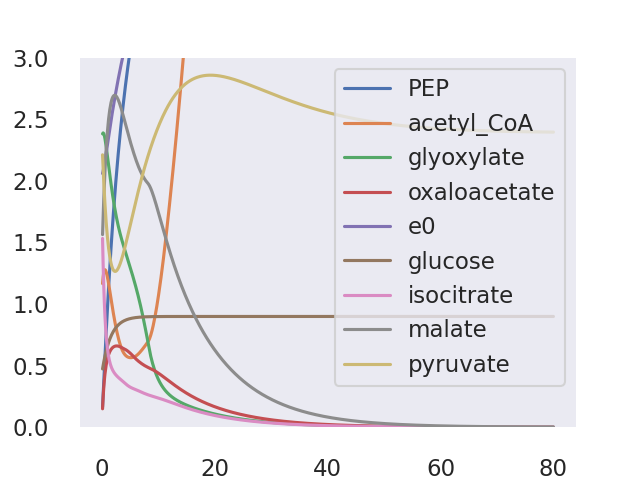
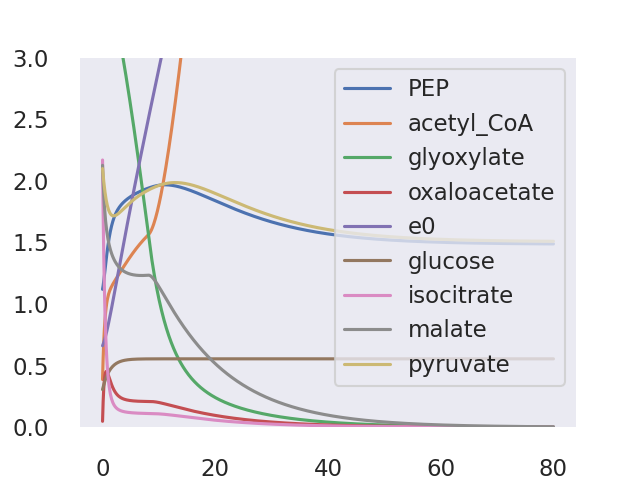
Added member variable to network for final masses

diff --git a/metabolicpd/examples/example2.py b/metabolicpd/examples/example2.py
@@ -7,49 +7,8 @@ from metabolicpd.life import network
 
 if __name__ == "__main__":
     # Another Example Case for a network from another paper
-    # m = np.random.rand(12) * 3
-    # f = np.random.default_rng().uniform(0.1, 0.8, 20)
-    m = np.array(
-        [
-            0.10194245,
-            1.12079691,
-            2.36864793,
-            0.08116026,
-            2.04990994,
-            0.45485493,
-            1.68571228,
-            1.46591457,
-            2.28409727,
-            2.54365606,
-            2.85419202,
-            0.47321457,
-        ]
-    )
-    f = np.array(
-        [
-            0.58770277,
-            0.65382647,
-            0.34918603,
-            0.28588688,
-            0.24594188,
-            0.5563654,
-            0.40659335,
-            0.37662764,
-            0.53239271,
-            0.18575152,
-            0.30141636,
-            0.52224964,
-            0.27252841,
-            0.70293088,
-            0.57637894,
-            0.25985019,
-            0.45472977,
-            0.53655764,
-            0.57407442,
-            0.23947391,
-        ]
-    )
-
+    m = np.random.rand(12) * 3
+    f = np.random.default_rng().uniform(0.1, 0.8, 20)
     cctb_network = network.Metabolic_Graph(
         file="data/central_carbon_tb.xlsx",
         mass=m,  # Makes the masses random via constructor
@@ -60,7 +19,5 @@ if __name__ == "__main__":
         num_samples=750,
     )
     result = cctb_network.simulate()
-    print(result["y"].T[-1])
-    print(result["y"].T[-1].shape)
-    print(cctb_network.mtb["name"].shape)
+    print(cctb_network.final_masses)
     network.basic_plot(result, cctb_network, [0, 1, 2, 3, 4, 5, 6, 7, 8], ylim=[0, 3])

diff --git a/metabolicpd/life/network.py b/metabolicpd/life/network.py
@@ -89,6 +89,7 @@ class Metabolic_Graph:
         self.t_0 = t_0
         self.t = t
         self.t_eval, _ = np.linspace(self.t_0, self.t, num_samples, retstep=True)
+        self.final_masses = None
 
         # read graph/network from clean file
         self.network: pd.DataFrame = pd.read_excel(file)
@@ -276,6 +277,7 @@ class Metabolic_Graph:
 
         tt = np.array(ts)
         yy = np.stack(xs)
+        self.final_masses = yy[-1]
         res = {"t": tt, "y": yy.T}
         return res
 
@@ -325,6 +327,9 @@ class Metabolic_Graph:
         # (From Switching to singleton mtb instead of lists)
         idx = self.mtb[self.mtb["name"] == mtb]["index"][0]  # type: ignore
         self.mass[idx] = val  # type: ignore
+
+    def getFinalMasses(self):
+        pass
 
 
 # TODO: Maybe move into class or make plot file
